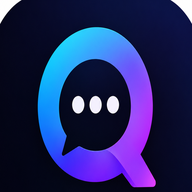
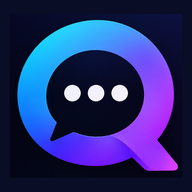
Add files via upload

diff --git a/style.css b/style.css
@@ -21,7 +21,7 @@
 
 .header-tools{display:flex;align-items:center;gap:6px}.header-tools .header-action{padding:8px 10px;font-size:12px}.policy-link{margin-top:16px;text-align:center}.policy-link a,.profile-modal a{color:#9ca8ff}.profile-modal textarea{width:100%;resize:vertical}.profile-modal input[type=file]{font-size:12px}.field-gap{margin-top:10px}.rps-score{padding:14px;border-radius:12px;background:var(--panel,#171b27);margin:14px 0;font-weight:700}.rps-last{padding:12px;border:1px solid #30374b;border-radius:12px;margin-bottom:14px;min-height:42px}.rps-buttons{display:flex;gap:8px}.rps-buttons button{flex:1;padding:12px 6px;border:1px solid #343b50;border-radius:12px;background:#22283a;color:inherit;cursor:pointer}.chat-file-link{display:inline-block;margin-top:5px;color:#b8c0ff;word-break:break-word}.chat-media-image{max-width:240px}.chat-media-video{max-width:280px}.header-tools button:disabled{opacity:.45}@media(max-width:650px){.header-tools{gap:3px}.header-tools .header-action{padding:7px 5px;font-size:10px}.header-tools .call-button{padding:8px}.rps-buttons{flex-direction:column}}
 
-.profile-avatar-img{width:100%;height:100%;object-fit:cover;border-radius:inherit;display:block}.avatar{overflow:hidden}
+.profile-avatar-img{width:100%;height:100%;object-fit:contain;border-radius:inherit;display:block}.avatar{overflow:hidden}
 /* Sticky chat controls, embedded calls, emoji/GIF and game corner */
 .chat-header{position:sticky;top:0;z-index:5;backdrop-filter:blur(16px)}
 .call-modal{width:min(96vw,1100px);height:min(90dvh,760px);max-width:none;max-height:none;padding:0;background:#0d1118;color:var(--text);border:1px solid #30394a;border-radius:18px;overflow:hidden}
@@ -80,4 +80,7 @@
 @media(max-width:480px){#settings-dialog{padding:16px}.settings-section{padding:12px}.call-location-choice{grid-template-columns:1fr}.call-location-choice button{font-size:13px}}
 
 /* QuietChat brand logo */
-.brand-mark{overflow:hidden;padding:0;background:#090d25;box-shadow:0 4px 18px #543cff22}.brand-mark img{display:block;width:100%;height:100%;object-fit:cover;border-radius:inherit}.brand-mark.small{flex-shrink:0}
+.brand-mark{overflow:hidden;padding:0;background:#090d25;box-shadow:0 4px 18px #543cff22}.brand-mark img{display:block;width:100%;height:100%;object-fit:contain;border-radius:inherit}.brand-mark.small{flex-shrink:0}
+
+/* Fixed QuietChat brand symbol: never crop the artwork */
+.brand-mark{background:#090d25;overflow:hidden}.brand-mark img{object-fit:contain;width:100%;height:100%;padding:2px}

diff --git a/index.html b/index.html
@@ -16,7 +16,7 @@
 <body>
   <main id="setup-screen" class="setup-wrap">
     <section class="setup-card">
-      <div class="brand-mark"><img src="assets/quietchat-icon.png" alt="QuietChat logo"></div>
+      <div class="brand-mark"><img src="quietchat-icon.png" alt="QuietChat logo"></div>
       <p class="eyebrow">SMALL CIRCLES. PRIVATE CHATS.</p>
       <h1>Welcome to QuietChat</h1>
       <p class="muted">A private place to chat with people you invite.</p>
@@ -61,7 +61,7 @@
   <main id="app-screen" class="app-shell hidden">
     <aside class="sidebar">
       <div class="sidebar-top">
-        <div class="brand-row"><div class="brand-mark small"><img src="assets/quietchat-icon.png" alt="QuietChat logo"></div><div><strong>QuietChat</strong><div class="tiny muted">your little corner</div></div></div>
+        <div class="brand-row"><div class="brand-mark small"><img src="quietchat-icon.png" alt="QuietChat logo"></div><div><strong>QuietChat</strong><div class="tiny muted">your little corner</div></div></div>
         <button id="new-chat-btn" class="icon-button" title="Create invite" aria-label="Create invite">＋</button>
       </div>
       <div class="sidebar-actions">

diff --git a/QUIETCHAT-FUTURE-ROADMAP.md b/QUIETCHAT-FUTURE-ROADMAP.md
@@ -1,0 +1,110 @@
+# QuietChat — Complete Future Features Roadmap
+
+**Status:** This document records the requested product specification. Items listed here are not automatically implemented merely by appearing in this roadmap. Test each feature before marking it complete or deploying it.
+
+QuietChat is intended to be a customisable messaging website inspired by Discord and iMessage, with private chats, public communities, video/voice calls, and real-time multiplayer games. Keep the front end in plain HTML, CSS, and JavaScript; continue using Supabase for authentication, database data, storage, and real-time updates; deploy over HTTPS; and enforce permissions on the server/database, not only in the browser.
+
+## 1. Messaging and friends
+- Show the actual sender username in chat lists and notifications.
+- Update messages automatically without refreshing; scroll to the newest message by default.
+- Show dates and times; render links as clickable links.
+- Support private one-to-one and group chats.
+- Support photos, videos, voice messages, and files under 5 MB, subject to each chat/community's media rules.
+- Allow users to edit/delete their own messages, reply, and react with emoji.
+- Add a GIF picker, profile pictures, usernames, and bios.
+- Provide online, away, and gaming statuses with privacy controls.
+
+## 2. Public communities
+- Let anyone discover, browse, search, and join public communities without an invite code.
+- Let users create communities and manage members.
+- Support multiple text channels; public/private channels and private communities.
+- Support roles and moderators, reporting, blocking, kicking, and banning.
+- Apply permissions on the server/database so users cannot bypass them by changing browser code.
+
+## 3. Online multiplayer games
+Planned games: chess, checkers, UNO-style cards, Connect 4, tic-tac-toe, rock-paper-scissors, Battleship, memory matching, Pong, Snake battles, two-player racing, and mini platform racing.
+- Games must use shared, authoritative online state; separate local copies in different browsers do not count as multiplayer.
+- Invite friends from chats; create private rooms or join public lobbies; support community members.
+- Synchronise moves and scores live without refreshing and recover/reconnect after disconnects.
+- Support same-device local multiplayer where suitable and keep the Games tab easy to access.
+
+## 4. Video and voice calls
+- Let users choose in-page calls or a separate browser tab.
+- Prefer a guest-friendly provider that does not require every participant to create an account.
+- Send call invitations in chats; support camera, microphone, screen sharing, and group calls where possible.
+- Provide an alternative external link if embedded calling fails.
+- Use HTTPS and explain browser/provider permission limitations clearly.
+
+## 5. Notifications
+- Show the real sender username, message preview, and chat/community name.
+- Provide Yes/No controls in Settings; optional sounds and message previews.
+- Respect browser notification permissions and privacy settings.
+- Example: “Alex — Hey, want to play chess? · Gaming Chat — now”.
+
+## 6. Website customisation
+- Preset accent colours: blue, purple, green, red, pink, and orange, plus a custom colour picker.
+- Dark, light, and extra-dark themes.
+- Custom backgrounds and chat wallpapers.
+- Adjustable text size, message bubbles, and sidebar layout.
+- Save preferences automatically.
+
+## 7. Media library and storage
+- Add a Local Media Library in the sidebar for shared photos, videos, and voice messages.
+- Filter media by person, chat, date, and type.
+- Support file downloads and conversation exports, including chat text and available media in PDF/export formats.
+- Saving modes: manual, automatic, or one-day saving.
+- Show a clear privacy/storage warning during signup.
+- Explain browser local-storage limits and cloud-vs-local behaviour; do not imply a website can silently save to any arbitrary local-drive folder.
+
+## 8. Settings page
+Create clear sections:
+- **Appearance:** themes, colours, backgrounds, layout.
+- **Notifications:** on/off, previews, sounds.
+- **Calls:** provider and in-page/new-tab choice.
+- **Account & Privacy:** profile, sign-in, blocking, security.
+- **Storage & Media:** local library and saving preferences.
+- **Chats & Export:** PDF, downloads, search, message expiration.
+- **Games & Communities:** activity privacy and community preferences.
+
+## 9. Unique features
+- Private message bookmarks.
+- Advanced search for messages, links, files, and photos by person/date.
+- Configurable message retention, including yearly cleanup of messages older than one year.
+- Friend activity with controls to hide online/game status.
+- Privacy dashboard for blocked users, sessions, media storage, and exports.
+- Invite an entire group chat or community into a game session.
+
+## 10. Group inactivity and media rules (required)
+### Automatic removal
+- Apply to every group, including private group chats and public communities.
+- After **30 days without sending a message in that group**, remove an inactive member.
+- Send a warning **7 days before removal** (that is, at 23 days of inactivity).
+- A message sent by that member in the group resets the inactivity timer and cancels the pending warning/removal.
+- Implement the timer and enforcement securely on the server (for example, a scheduled Supabase job/function); do not depend on a member keeping the website open.
+- Notify the person why they were removed. Removed members must not be able to post until they rejoin.
+### Rejoining
+- Show removed members a **Rejoin group** option when the group's privacy/access rules allow it.
+- When they rejoin, post a welcome-back system message in the group.
+- Preserve old messages where allowed by group privacy and retention rules; do not restore access to private content if access policy says otherwise.
+### GIFs and pictures
+| Conversation type | GIFs | Pictures |
+|---|---|---|
+| Public groups/communities | Allowed | **Not allowed** |
+| Private groups | Disabled | Follow existing private-group rules |
+| One-to-one chats | Disabled | Follow existing one-to-one chat rules |
+- Enforce these restrictions in the upload/message endpoint and database/storage access rules as well as the interface. A client-side hide/disable alone is not sufficient.
+- Keep the existing file-size limit and other media rules for other file types unless explicitly changed.
+
+## 11. Recommended development order
+1. **Reliability:** correct usernames, live messaging, auto-scroll, notifications, dependable calls.
+2. **Customisation:** Settings redesign, colour presets, themes, profiles.
+3. **Communities:** public discovery, channels, membership, roles, moderation, inactivity rules, media restrictions.
+4. **Online games:** playable shared-state games, lobbies, invites, reconnect handling.
+5. **Advanced features:** media library, bookmarks, search, exports, and retention controls.
+
+## Acceptance and safety notes
+- Treat this as a roadmap, not proof of implementation.
+- Test with at least two separate accounts/browsers, including denied access, removed members, rejoining, and real-time updates.
+- Validate uploads and membership on the server/database; never trust client-only checks.
+- Check migrations and backup data before changing the Supabase schema or running cleanup jobs.
+- Do not delete messages/media automatically until the retention rules and user-facing warnings are clear and tested.

diff --git a/README.md b/README.md
@@ -93,3 +93,7 @@ The export opens a new browser tab. Click **Print / Save as PDF** and choose **S
 - Links in messages remain clickable.
 
 Note: These changes were checked for JavaScript syntax, but live calls, authentication, Supabase permissions, and multiplayer sessions still need to be tested on the deployed site with two accounts. External meeting services such as Google Meet generally cannot be embedded directly inside another website, so those links open in a separate tab.
+
+
+## Complete future features roadmap
+The full requested roadmap, including 30-day group inactivity removal, a 7-day warning, rejoining/welcome-back behaviour, and GIF/picture restrictions, is in `QUIETCHAT-FUTURE-ROADMAP.md`. This file is a specification only; it does not mean every listed feature is already implemented or tested.
